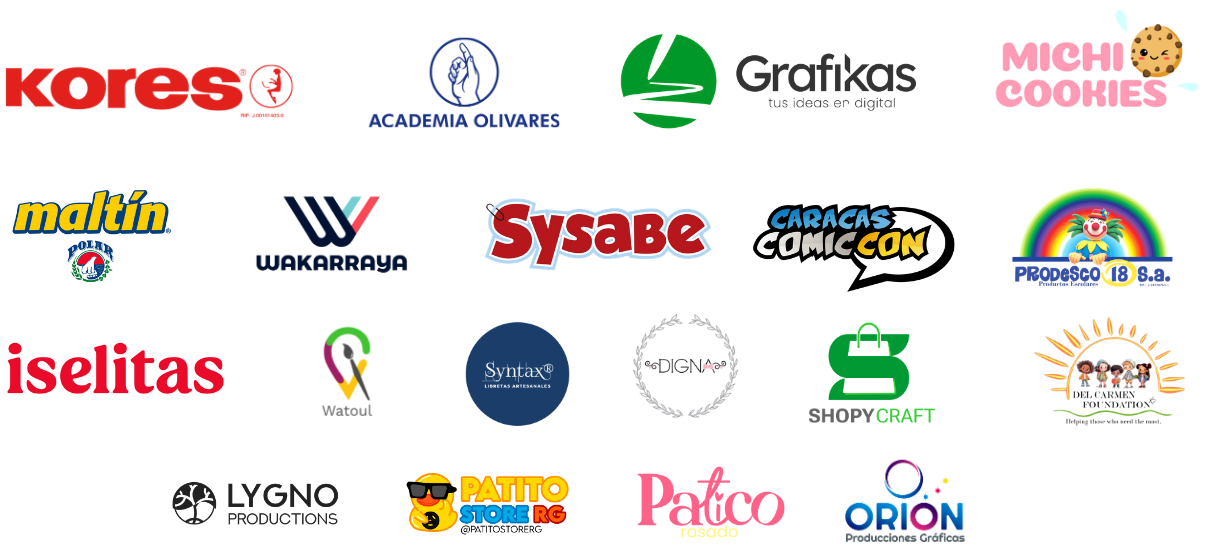
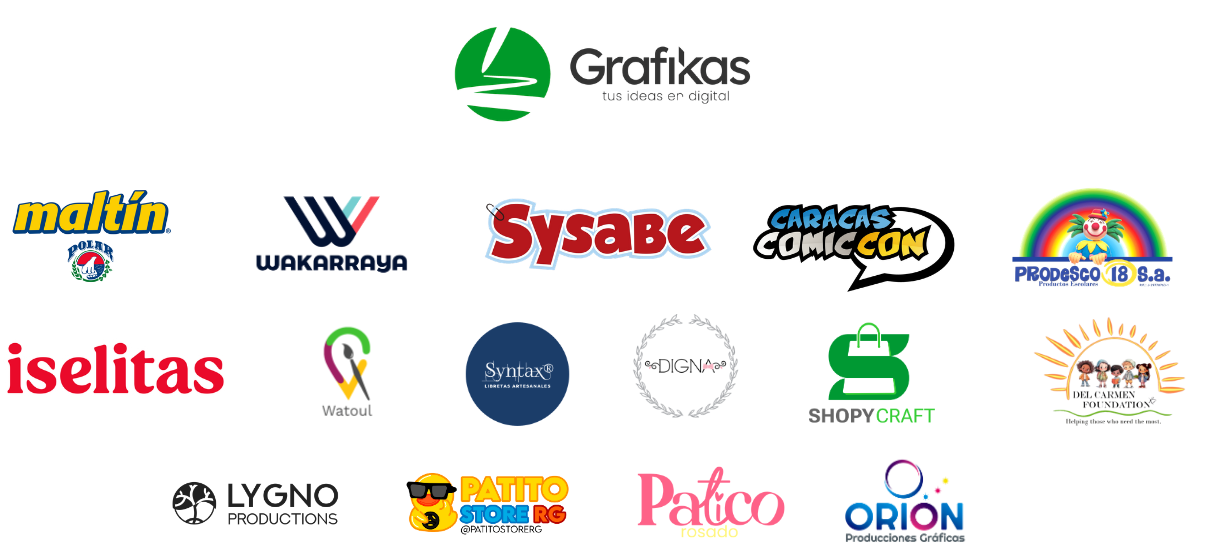
Bazar creativo: patrocinantes de esta edición y sin repetidos en «Nos han acompañado»; protector de cumpleaños en la app
Claude-Session: https://claude.ai/code/session_018Ub7mYoHaidSA6kyKEh1FA

Changed region(s): [[0.3068, 0.0311, 0.767, 0.2491], [0.8284, 0.0311, 1.0, 0.2179], [0.0, 0.1245, 0.2454, 0.2179]]

diff --git a/bazar-creativo.html b/bazar-creativo.html
@@ -36,9 +36,20 @@
     <div class="kpi" style="background:var(--cyan);box-shadow:8px 8px 0 var(--pink)"><b id="ttTotal">+15.600</b><span>seguidores en TikTok</span><small class="kd"><span>@retocreativofest <b id="ttRcf">7.600</b></span><span>@mentemilenial <b id="ttMm">8.000</b></span></small></div>
     <small>Entre Mente Milenial y Reto Creativo Fest. Público mayoritariamente femenino y venezolano, de 18 a 44 años.</small></div>
 </div></section>
+<section class="sec patro" id="patrocinantes" aria-labelledby="patro-h"><div class="wrap">
+  <h2 class="h-sec" id="patro-h">Patrocinantes de esta edición</h2>
+  <div class="patro-grid">
+    <figure class="patro-card ancho"><img src="assets/img/aliados/kores.webp?v=2" alt="Kores" width="600" height="110" loading="lazy" decoding="async"></figure>
+    <figure class="patro-card"><img src="assets/img/aliados/academia-olivares.webp?v=2" alt="Academia Olivares" width="582" height="274" loading="lazy" decoding="async"></figure>
+    <figure class="patro-card"><img src="assets/img/aliados/space-creative-lab.webp" alt="Space Creative Lab" width="626" height="640" loading="lazy" decoding="async"></figure>
+    <figure class="patro-card"><img src="assets/img/aliados/instituto-venezolano-de-lenguas.webp" alt="Instituto Venezolano de Lenguas" width="640" height="570" loading="lazy" decoding="async"></figure>
+    <figure class="patro-card"><img src="assets/img/aliados/michi-cookies.webp?v=2" alt="Michi Cookies" width="600" height="288" loading="lazy" decoding="async"></figure>
+    <figure class="patro-card"><img src="assets/img/aliados/fth.webp?v=1" alt="FTH" width="501" height="300" loading="lazy" decoding="async"></figure>
+  </div>
+</div></section>
 <section class="sec" style="background:var(--white)"><div class="wrap">
   <h2 style="font-size:clamp(24px,2.4vw,32px)">Nos han acompañado</h2>
-  <div class="logos"><img src="assets/img/patrocinantes-2025-800.webp" srcset="assets/img/patrocinantes-2025-800.webp 800w, assets/img/patrocinantes-2025.webp 1600w" sizes="100vw" decoding="async" alt="Marcas que han apoyado al Reto Creativo Fest: Kores, Academia Olivares, Grafikas, Michi Cookies, Maltín Polar, Wakarraya, Sysabe, Caracas Comic Con, Prodesco 18, Iselitas, Watoul, Syntax, Digna, Shopycraft, Del Carmen Foundation, Lygno Productions, Patito Store RG, Patico Rosado y Orion Producciones Gráficas" width="1206" height="546" loading="lazy"></div>
+  <div class="logos"><img src="assets/img/patrocinantes-2025-800.webp?v=2" srcset="assets/img/patrocinantes-2025-800.webp?v=2 800w, assets/img/patrocinantes-2025.webp?v=2 1600w" sizes="100vw" decoding="async" alt="Marcas que han apoyado al Reto Creativo Fest: Grafikas, Maltín Polar, Wakarraya, Sysabe, Caracas Comic Con, Prodesco 18, Iselitas, Watoul, Syntax, Digna, Shopycraft, Del Carmen Foundation, Lygno Productions, Patito Store RG, Patico Rosado y Orion Producciones Gráficas" width="1206" height="546" loading="lazy"></div>
 </div></section>
 <section class="sec expo"><svg class="spark" style="--s:80px;top:64px;right:11%" viewBox="0 0 100 100" aria-hidden="true"><path d="M50 2 C54 34 66 46 98 50 C66 54 54 66 50 98 C46 66 34 54 2 50 C34 46 46 34 50 2Z" fill="#FFD60A"/></svg><div class="wrap" style="position:relative">
   <h2>Expón en el Bazar creativo</h2>

diff --git a/app/app.js b/app/app.js
@@ -490,7 +490,9 @@ function dibujarHoy(h, error) {
         ${yaSubio()
           ? `<div class="caja" style="text-align:center;background:var(--white)">✓ Ya subiste tu dibujo de esta semana</div>${botonesCompartir(E.semana.padlet || CONFIG.padlet)}`
           : '<button type="button" class="btn amarillo" id="subir">SUBIR MI DIBUJO</button>'}
-        ${!yaSubio() && E.progreso && E.progreso.enRiesgo ? (E.club && E.club.activo
+        ${!yaSubio() && E.progreso && E.progreso.enRiesgo ? (E.club && E.club.cumple && E.club.cumple.disponible
+          ? `<button type="button" class="btn blanco chico" id="proteger">🎂 Usar tu protector de cumpleaños (vence el ${fechaCorta(E.club.cumple.hasta)})</button>`
+          : E.club && E.club.activo
           ? (E.club.protectores > 0 ? `<button type="button" class="btn blanco chico" id="proteger">🛡 Usar un protector de racha (te quedan ${E.club.protectores})</button>` : '<p class="nota">Ya usaste tus 2 protectores de este mes.</p>')
           : '<button type="button" class="enlace" data-ir="club" style="font-size:13px">🛡 Con el Club Estrella tienes 2 protectores al mes para que tu racha no se apague</button>') : ''}
       </section>`;
@@ -1057,6 +1059,7 @@ function vistaYo() {
       ${E.club && E.club.activo
         ? `<div class="club-yo"><img src="img/estrella-${E.club.estrella}.webp" alt="" width="54" height="54"><div><b>Club Estrella activo</b><span>Hasta el ${fechaCorta(E.club.hasta)} · llevas ${E.club.meses} ${E.club.meses === 1 ? 'mes' : 'meses'}${E.club.protectores ? ' · ' + E.club.protectores + ' protectores' : ''}</span></div></div>`
         : '<button type="button" class="btn blanco chico" data-ir="club">★ Conocer el Club Estrella</button>'}
+      ${E.club && E.club.cumple && E.club.cumple.disponible ? `<div class="caja crema"><strong class="t">🎂 Tu regalo de cumpleaños</strong>Tienes un protector de racha hasta el ${fechaCorta(E.club.cumple.hasta)}. Úsalo en «Hoy» si tu racha está en riesgo.</div>` : ''}
       ${avisosHtml()}
       ${instalada ? '' : `<button type="button" class="btn amarillo chico" id="instalar">📲 Instalar la app en mi teléfono</button>`}
       <a class="btn blanco chico" href="${CONFIG.web}/preguntas-frecuentes.html" target="_blank" rel="noopener">Preguntas frecuentes</a>

diff --git a/app/sw.js b/app/sw.js
@@ -1,6 +1,6 @@
 /* #RetoMenteMilenial · funciona sin conexión para la parte visual. Los datos siempre se piden en línea. */
-const VERSION = 'rmm-app-v30';
-const BASE = ['./', 'index.html', 'app.css?v=19', 'app.js?v=29', 'manifest.webmanifest',
+const VERSION = 'rmm-app-v31';
+const BASE = ['./', 'index.html', 'app.css?v=19', 'app.js?v=30', 'manifest.webmanifest',
   'img/digi.webp', 'img/tradi.webp', 'img/digi-cara.webp', 'img/tradi-cara.webp', 'img/icon-192.png',
   'img/sticker-1.webp', 'img/sticker-2.webp', 'img/sticker-3.webp', 'chispa.js?v=8',
   'img/estrella-1.webp', 'img/estrella-3.webp', 'img/estrella-6.webp',

diff --git a/app/index.html b/app/index.html
@@ -26,6 +26,6 @@
 </div>
 <div id="toast" class="toast" role="status" hidden></div>
 <noscript><p class="noscript">Para usar la app del #RetoMenteMilenial necesitas activar JavaScript en tu navegador.</p></noscript>
-<script type="module" src="app.js?v=29"></script>
+<script type="module" src="app.js?v=30"></script>
 </body>
 </html>
